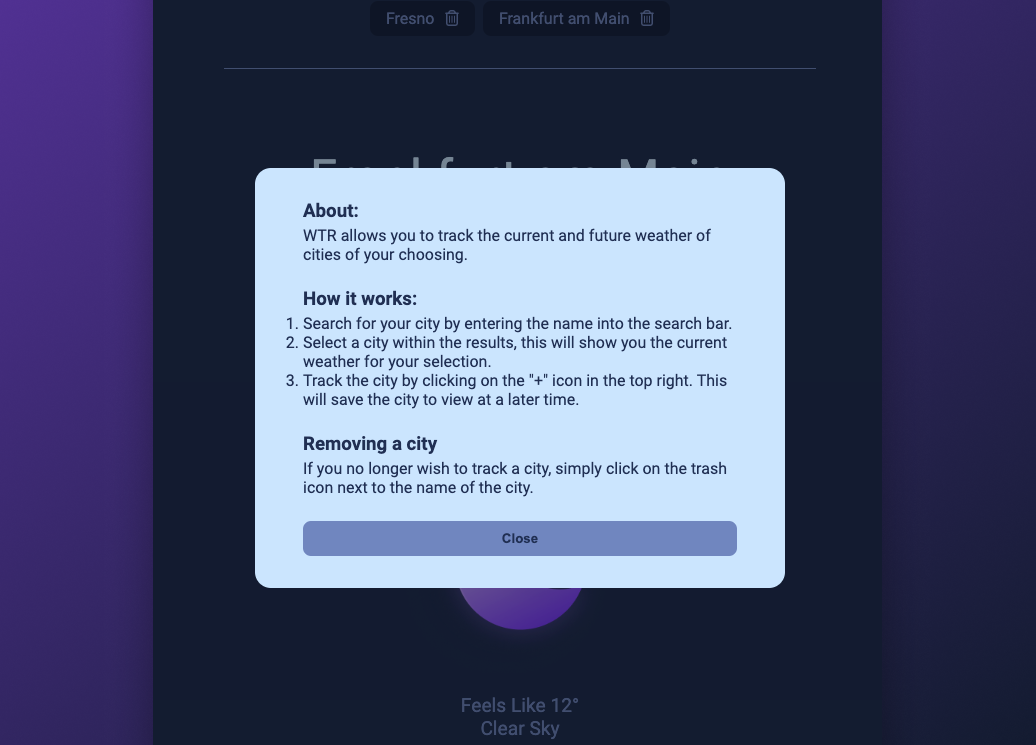
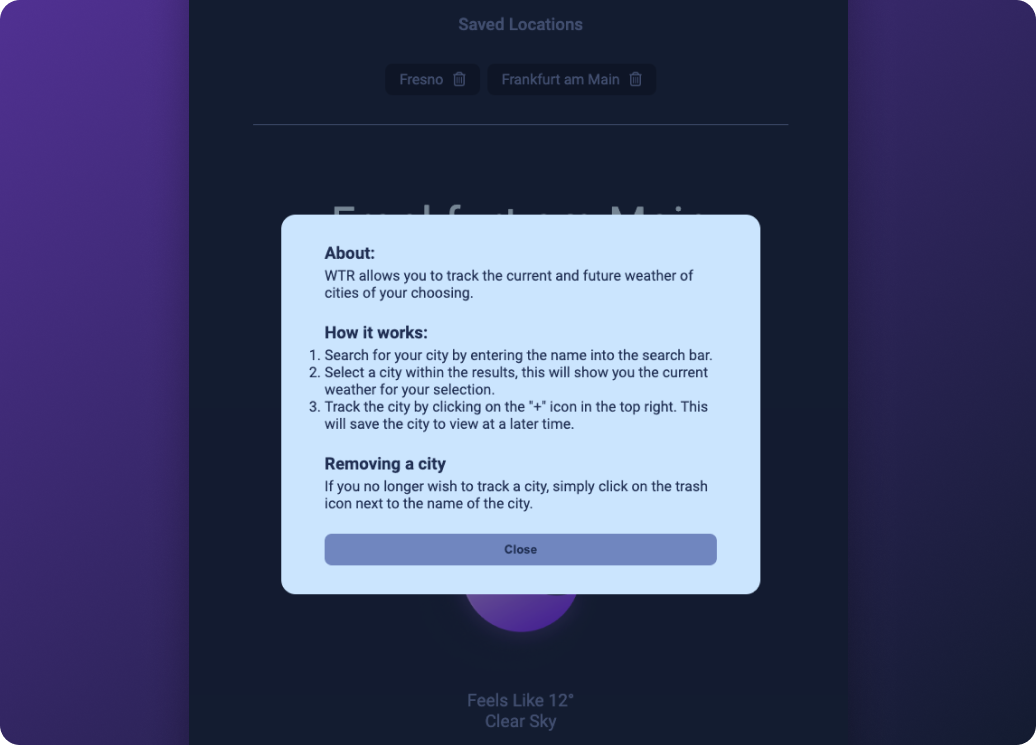
fix screenshots

diff --git a/README.md b/README.md
@@ -1,3 +1,3 @@
 # Vue Weather App
-![alt text](./public/screen-3.png)
-![alt text](./public/screen-4.png)
+![alt text](./public/screen-1.png)
+![alt text](./public/screen-2.png)
